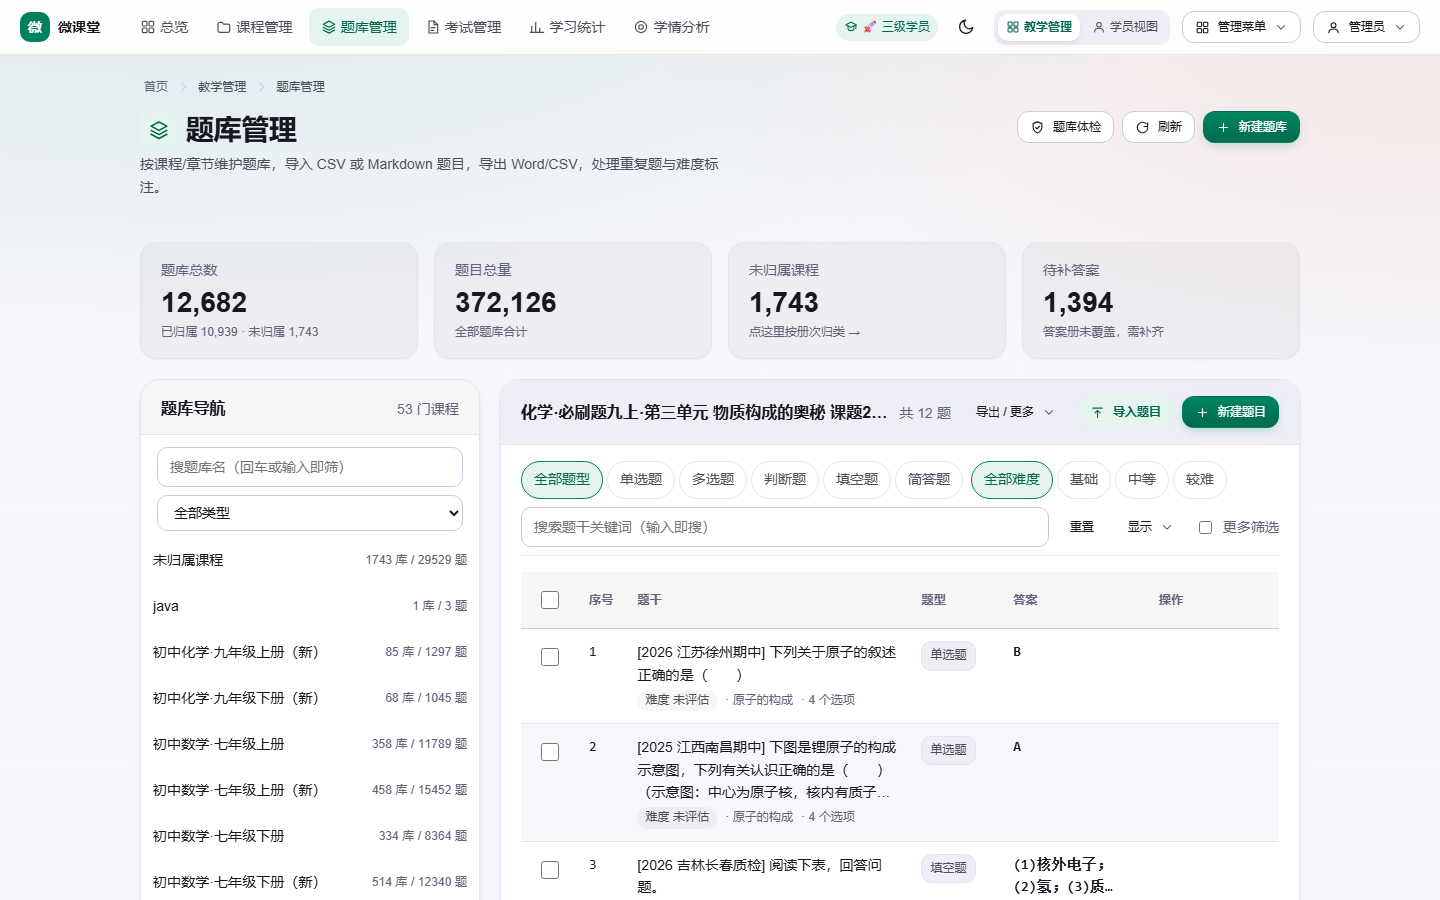
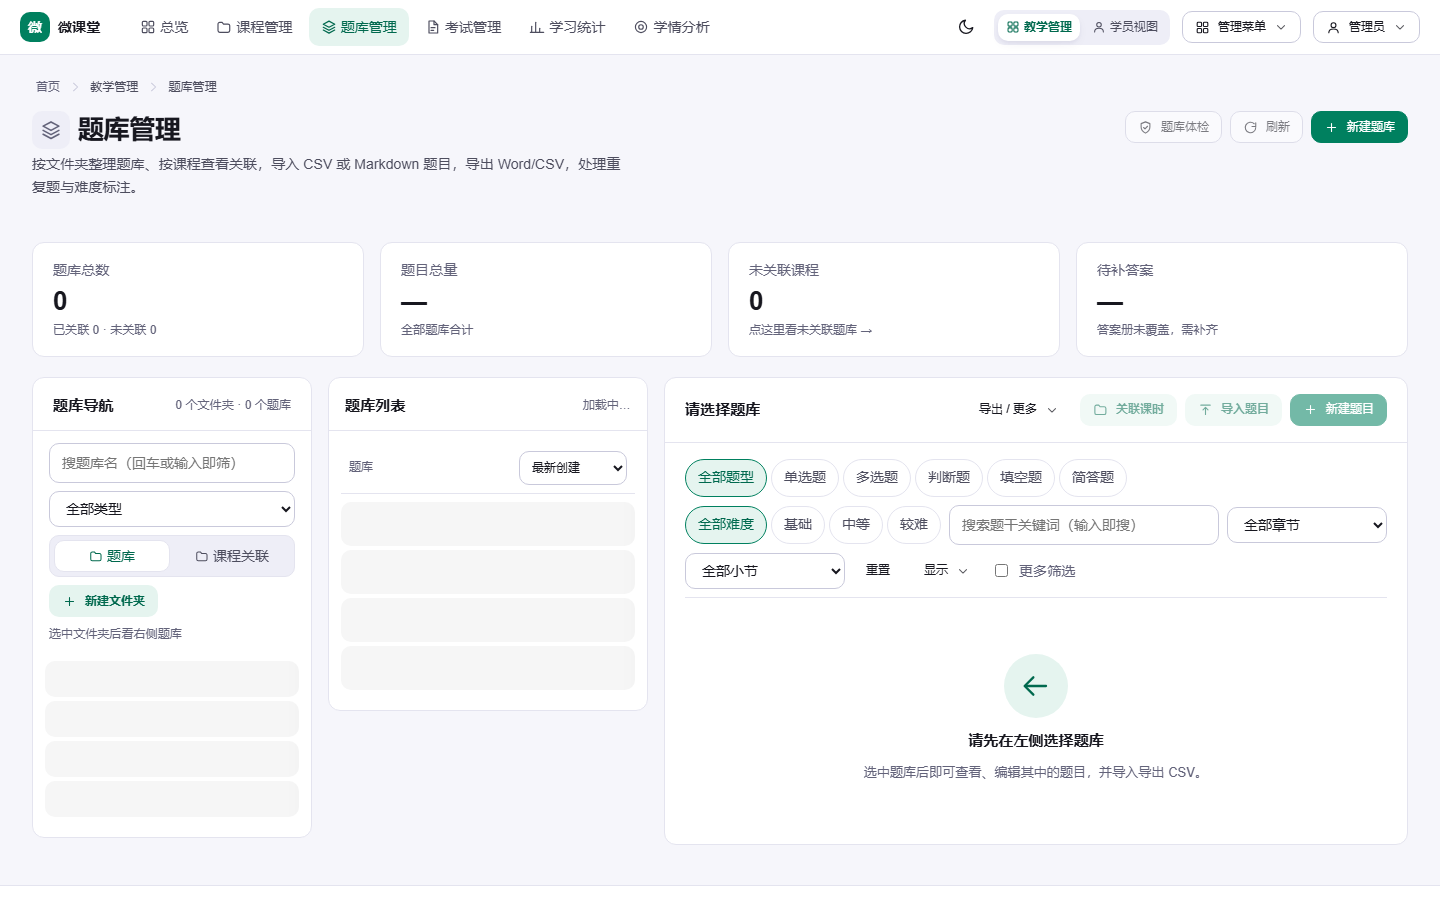
更新 README 截图到新版界面

diff --git a/README.md b/README.md
@@ -12,17 +12,21 @@
 
 ## 截图
 
-| 学生端 · 课程大厅                 | 教师端 · 题库管理                       |
-| --------------------------------- | --------------------------------------- |
-| ![课程大厅](docs/images/hall.png) | ![题库管理](docs/images/bank-admin.png) |
+| 学生端 · 首页看板                 | 学生端 · 课程大厅                 |
+| --------------------------------- | --------------------------------- |
+| ![首页看板](docs/images/home.png) | ![课程大厅](docs/images/hall.png) |
 
-| 组卷向导（随机 / 挑选 · 平行卷）          | 错题本（答对自动标记掌握）            |
-| ----------------------------------------- | ------------------------------------- |
-| ![组卷向导](docs/images/exam-compose.png) | ![错题本](docs/images/wrong-book.png) |
+| 教师端 · 题库管理                       | 错题本（答对自动标记掌握）            |
+| --------------------------------------- | ------------------------------------- |
+| ![题库管理](docs/images/bank-admin.png) | ![错题本](docs/images/wrong-book.png) |
 
-| 课程 / 课时管理                           | 学员与权限                                 |
-| ----------------------------------------- | ------------------------------------------ |
-| ![课程管理](docs/images/course-admin.png) | ![学员与账号](docs/images/admin-users.png) |
+| 组卷向导（随机 / 挑选 · 平行卷）          | 课程 / 课时管理                           |
+| ----------------------------------------- | ----------------------------------------- |
+| ![组卷向导](docs/images/exam-compose.png) | ![课程管理](docs/images/course-admin.png) |
+
+| 学员与权限                                 | 学生端 · 观看页（断点续播）            |
+| ------------------------------------------ | -------------------------------------- |
+| ![学员与账号](docs/images/admin-users.png) | ![观看页](docs/images/video-watch.png) |
 
 ## 视频挂载（3 步）
 
